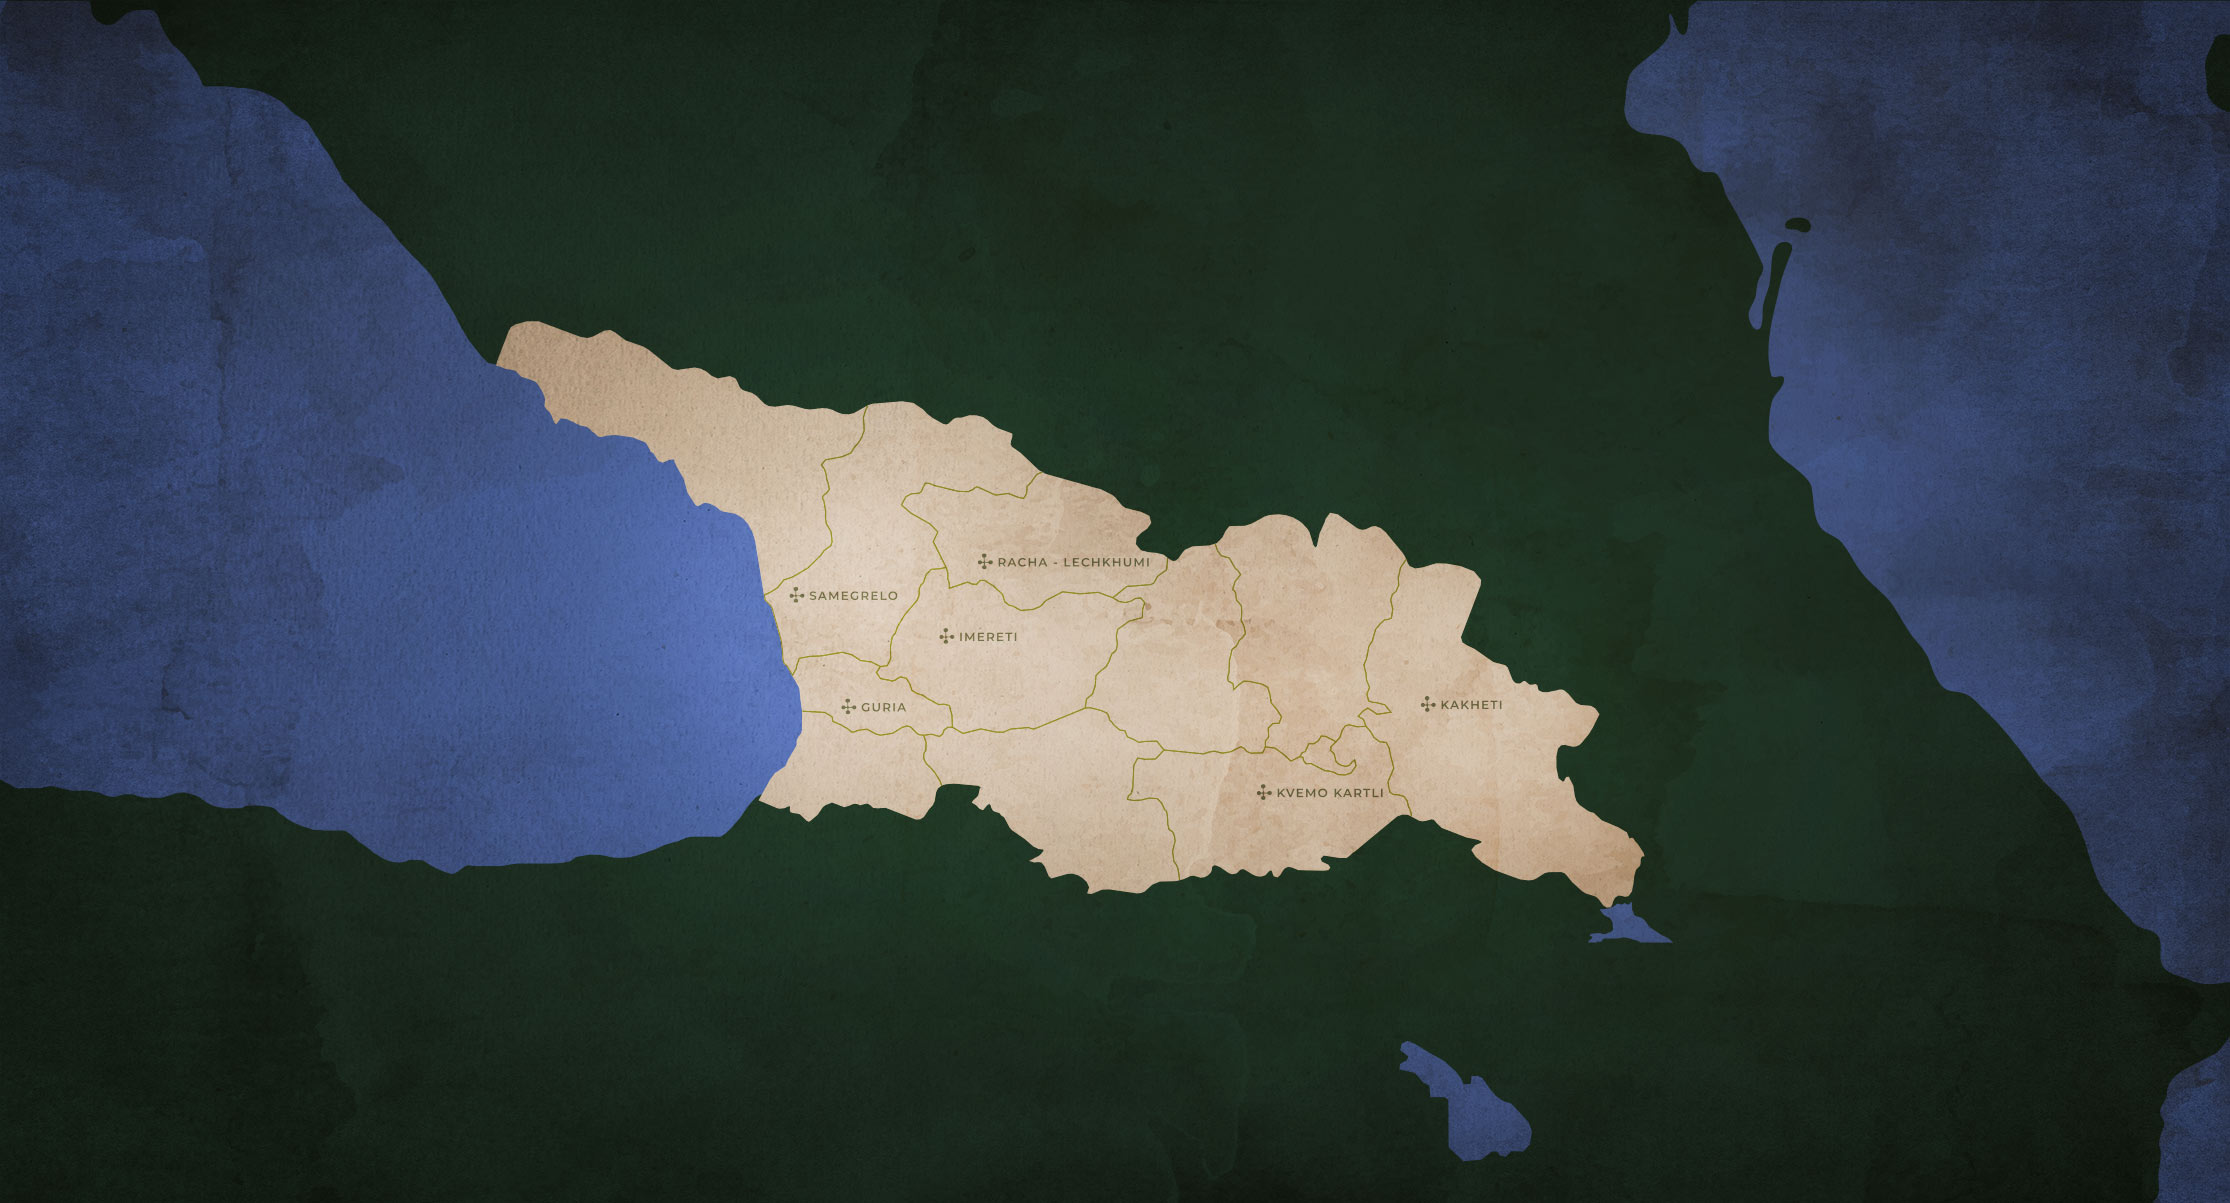
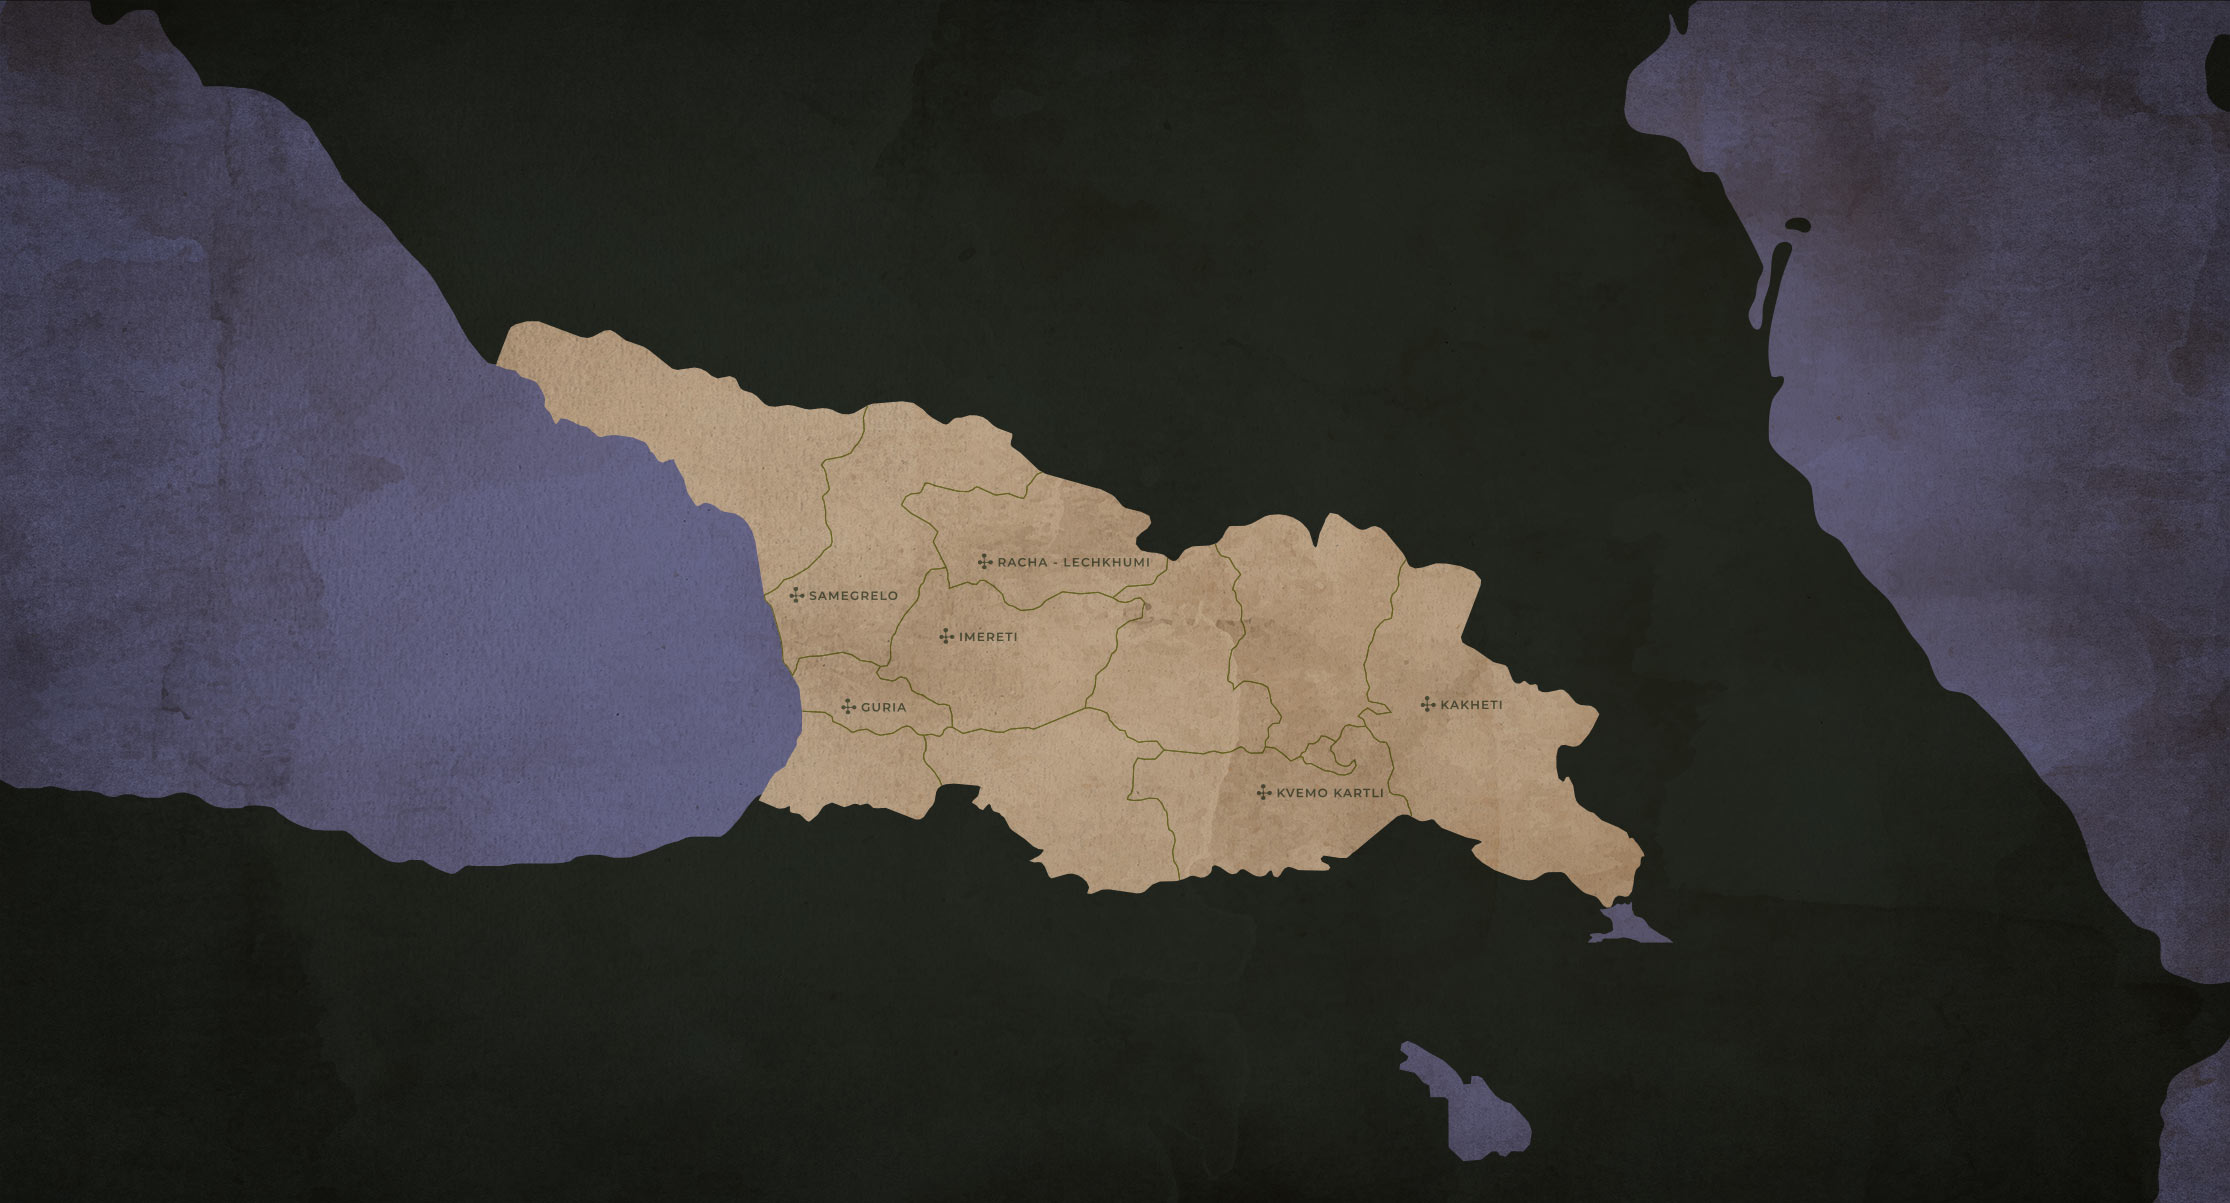
ma7p and header changes

diff --git a/src/components/layout/HeaderContent.tsx b/src/components/layout/HeaderContent.tsx
@@ -10,6 +10,7 @@ import { cn } from "@/lib/utils";
 import { focusRing } from "@/lib/focus-ring";
 import { NavLink } from "@/components/ui/NavLink";
 import { Wordmark } from "@/components/ui/Wordmark";
+import { HeaderFadeDown } from "@/components/ui/HeaderFadeDown";
 import { MenuOverlay } from "./MenuOverlay";
 import { LanguageSwitcher } from "./LanguageSwitcher";
 import { HamburgerButton } from "./HamburgerButton";
@@ -59,7 +60,7 @@ export async function HeaderContent({
           "desktop:px-[max(17px,calc(var(--desktop-fluid-unit)*20))] px-5 md:px-6",
         )}
       >
-        <div className="flex items-center">
+        <HeaderFadeDown className="flex items-center">
           <MenuOverlay
             trigger={
               <HamburgerButton
@@ -74,11 +75,11 @@ export async function HeaderContent({
             menuColumns={menuColumns}
             currentLocale={locale}
           />
-        </div>
+        </HeaderFadeDown>
 
         {/* Desktop nav words — absolutely positioned at their exact Figma x. */}
         {primaryNav.map((item, index) => (
-          <div
+          <HeaderFadeDown
             key={item.id}
             className={cn(
               "desktop:flex absolute inset-y-0 hidden items-center",
@@ -89,38 +90,50 @@ export async function HeaderContent({
               href={item.href}
               active={activeId === item.id}
               edgeUnderline
+              // The words sit low in the bar (below the logo's centreline,
+              // nearer the underline) rather than vertically centred. Applied to
+              // the word itself, so the underline stays pinned to the bar's
+              // bottom edge and the parent keeps its entrance transform free.
               wordClassName={cn(
+                "desktop:translate-y-[calc(var(--desktop-fluid-unit)*21)]",
                 index < 2 &&
-                  "desktop:translate-y-[max(2.5px,calc(var(--desktop-fluid-unit)*3.5))]",
+                  "desktop:translate-y-[calc(var(--desktop-fluid-unit)*24.5)]",
               )}
               underlineClassName="desktop:right-auto desktop:left-1/2 desktop:h-[2px] desktop:w-[max(117px,calc(var(--desktop-fluid-unit)*165))] desktop:-translate-x-1/2"
               className="h-full px-0"
             >
               {item.label}
             </NavLink>
-          </div>
+          </HeaderFadeDown>
         ))}
 
-        {/* Logo — centered on the frame (Figma center 720 = 1440 / 2). */}
-        <div className="absolute top-1/2 left-1/2 flex -translate-x-1/2 -translate-y-1/2 items-center">
-          <Link
-            href="/"
-            aria-label="Mgaloblishvili — Home"
-            className={cn(
-              "desktop:invert-0 inline-flex group-data-[scrolled=true]/header:invert-0",
-              usesLightMobileControls ? "invert-0" : "invert",
-              focusRing("dark"),
-            )}
-          >
-            {/* Figma logo width = 253px @ 1440 (17.57vw), clamped. */}
-            <Wordmark
-              size="header"
-              className="desktop:w-[max(180px,calc(var(--desktop-fluid-unit)*253))] desktop:[&_img]:w-full"
-            />
-          </Link>
+        {/* Logo — centered on the frame (Figma center 720 = 1440 / 2). The
+            centring transform lives on this wrapper so the entrance animation
+            inside it can own its own transform without conflict. */}
+        {/* Sits a touch below the bar's centreline (offset on `top`, not on the
+            transform, which is busy centring — and whose child owns the
+            entrance animation). Mobile stays centred. */}
+        <div className="desktop:top-[calc(50%_+_var(--desktop-fluid-unit)*7)] absolute top-1/2 left-1/2 flex -translate-x-1/2 -translate-y-1/2 items-center">
+          <HeaderFadeDown>
+            <Link
+              href="/"
+              aria-label="Mgaloblishvili — Home"
+              className={cn(
+                "desktop:invert-0 inline-flex group-data-[scrolled=true]/header:invert-0",
+                usesLightMobileControls ? "invert-0" : "invert",
+                focusRing("dark"),
+              )}
+            >
+              {/* Figma logo width = 253px @ 1440 (17.57vw), clamped. */}
+              <Wordmark
+                size="header"
+                className="desktop:w-[max(180px,calc(var(--desktop-fluid-unit)*253))] desktop:[&_img]:w-full"
+              />
+            </Link>
+          </HeaderFadeDown>
         </div>
 
-        <div className="ml-auto flex items-center justify-end">
+        <HeaderFadeDown className="ml-auto flex items-center justify-end">
           <LanguageSwitcher
             current={locale}
             tone={usesLightMobileControls ? "dark" : "light"}
@@ -132,7 +145,7 @@ export async function HeaderContent({
               "desktop:[&_button[aria-pressed=false]]:text-ink-inverse/70",
             )}
           />
-        </div>
+        </HeaderFadeDown>
       </div>
     </HeaderScrollFrame>
   );

diff --git a/src/components/ui/HeaderFadeDown.tsx b/src/components/ui/HeaderFadeDown.tsx
@@ -1,0 +1,35 @@
+"use client";
+
+import { type ReactNode } from "react";
+import { useIntroReady } from "@/components/ui/useIntroReady";
+import { cn } from "@/lib/utils";
+
+type HeaderFadeDownProps = {
+  /** Layout utilities for the element being animated. */
+  readonly className?: string;
+  readonly children: ReactNode;
+};
+
+/**
+ * Fades a header element in from above (top → bottom) once the page-load
+ * brand-intro overlay has cleared, so the bar reads as empty and then fills in.
+ * The gate is keyed on the pathname (see `useIntroReady`), so it replays on
+ * route change. Reduced motion falls back to an opacity-only fade.
+ *
+ * The rendered element carries the animation's `transform`, so never give it a
+ * transform of its own — wrap it, or apply the transform to a child.
+ */
+export function HeaderFadeDown({ className, children }: HeaderFadeDownProps) {
+  const ready = useIntroReady();
+
+  return (
+    <div
+      className={cn(
+        ready ? "header-fade-down" : "header-fade-down--pending",
+        className,
+      )}
+    >
+      {children}
+    </div>
+  );
+}

diff --git a/src/app/globals.css b/src/app/globals.css
@@ -360,6 +360,21 @@ html::-webkit-scrollbar {
   }
 }
 
+/* Content-header entrance: the bar renders empty and its contents fade in from
+   above (top → bottom), reusing the shared category-fade-down motion. Gated on
+   the brand intro (see HeaderFadeDown) so it never plays behind the overlay;
+   --pending holds the hidden start state until then. The animated element must
+   not carry its own transform — the logo is centred by a parent wrapper and the
+   nav words are nudged on an inner span for exactly this reason. */
+.header-fade-down {
+  animation: category-fade-down 1400ms cubic-bezier(0.22, 1, 0.36, 1) both;
+}
+
+.header-fade-down--pending {
+  opacity: 0;
+  transform: translateY(calc(-1 * var(--motion-offset-14)));
+}
+
 @keyframes wine-list-fade-right {
   from {
     opacity: 0;
@@ -868,6 +883,13 @@ html::-webkit-scrollbar {
   }
   /* Reduced motion: no slide — opacity fade only, no positional movement. */
   .intro-flyin--pending {
+    transform: none !important;
+  }
+  /* Reduced motion: header contents fade only, no downward travel. */
+  .header-fade-down {
+    animation-name: menu-fade-in !important;
+  }
+  .header-fade-down--pending {
     transform: none !important;
   }
   /* Reduced motion: no zoom — image stays at rest. */

diff --git a/src/app/(content)/experiences/[experience]/page.tsx b/src/app/(content)/experiences/[experience]/page.tsx
@@ -127,7 +127,10 @@ function EditorialExperiencePage({
                   className="object-contain object-left"
                 />
               </div>
-              <div className="mt-[calc(var(--desktop-fluid-unit)*15.3)] w-[calc(var(--desktop-fluid-unit)*435.2)] max-w-full">
+              {/* Figma text box = 512 wide (was 435.2, i.e. 512 × the 0.85
+                  calibration). Widening past 512 changes nothing — the copy has
+                  already hit its minimum line count. */}
+              <div className="mt-[calc(var(--desktop-fluid-unit)*15.3)] w-[calc(var(--desktop-fluid-unit)*512)] max-w-full">
                 {secondSection ? (
                   <ExperienceProse section={secondSection} />
                 ) : null}
@@ -229,13 +232,18 @@ function ExperienceProse({
   return (
     <div
       className={cn(
-        "desktop:text-[max(11.9px,calc(var(--desktop-fluid-unit)*13.6))] font-serif text-[15px] leading-[1.5] md:text-[16px]",
+        // Figma: Noto Serif Georgian, 16px, letter-spacing 0. `font-serif` is the
+        // Noto Serif Latin→Georgian stack. Rendered at the true 16px (NOT the
+        // page's 0.85 calibration, which was showing it at 13.6). Figma reports
+        // line-height 100%, but its own artwork draws ~1.5 — a literal 100%
+        // would collapse the lines — so 1.5 stands.
+        "desktop:text-[calc(var(--desktop-fluid-unit)*16)] font-serif text-[15px] leading-[1.5] tracking-normal md:text-[16px]",
         className,
       )}
     >
-      {/* Figma: the first line is bold (700); the rest is Medium (500), same size. */}
+      {/* Figma: the first line is bold (700); the body is Light (300), same size. */}
       <h2 className="font-bold">{section.heading}</h2>
-      <div className="text-ink/85 desktop:mt-[calc(var(--desktop-fluid-unit)*17.136)] desktop:space-y-[calc(var(--desktop-fluid-unit)*13.464)] mt-5 space-y-4 font-medium">
+      <div className="text-ink/85 desktop:mt-[calc(var(--desktop-fluid-unit)*17.136)] desktop:space-y-[calc(var(--desktop-fluid-unit)*13.464)] mt-5 space-y-4 font-light">
         {section.body.map((paragraph, index) => (
           <p key={index}>{paragraph}</p>
         ))}

diff --git a/src/app/(content)/vineyards/[region]/page.tsx b/src/app/(content)/vineyards/[region]/page.tsx
@@ -60,7 +60,10 @@ export default async function VineyardRegionPage({
         >
           <div className="desktop:h-[var(--vr-band)] desktop:pt-[max(92px,calc(var(--desktop-fluid-unit)*105))] desktop:pr-[min(var(--vr-gap),8vw)] desktop:pb-[var(--vr-gap)] desktop:pl-[calc(var(--desktop-fluid-unit)*50)] flex flex-col px-6 pt-28 pb-12 md:px-12 md:pt-36 md:pb-16">
             <IntroFlyIn order={1}>
-              <div className="desktop:aspect-[87/96] desktop:w-[max(72px,calc(var(--desktop-fluid-unit)*87))] relative aspect-square w-24 overflow-hidden">
+              {/* Figma: symbol 69×76 (was 87×96). No `max()` floor here — a
+                  72px floor would now exceed the 69px reference width and pin
+                  it; the fluid unit already floors itself at 0.75. */}
+              <div className="desktop:aspect-[69/76] desktop:w-[calc(var(--desktop-fluid-unit)*69)] relative aspect-square w-24 overflow-hidden">
                 <Image
                   src="/svgs/TheSymbol.svg"
                   alt=""